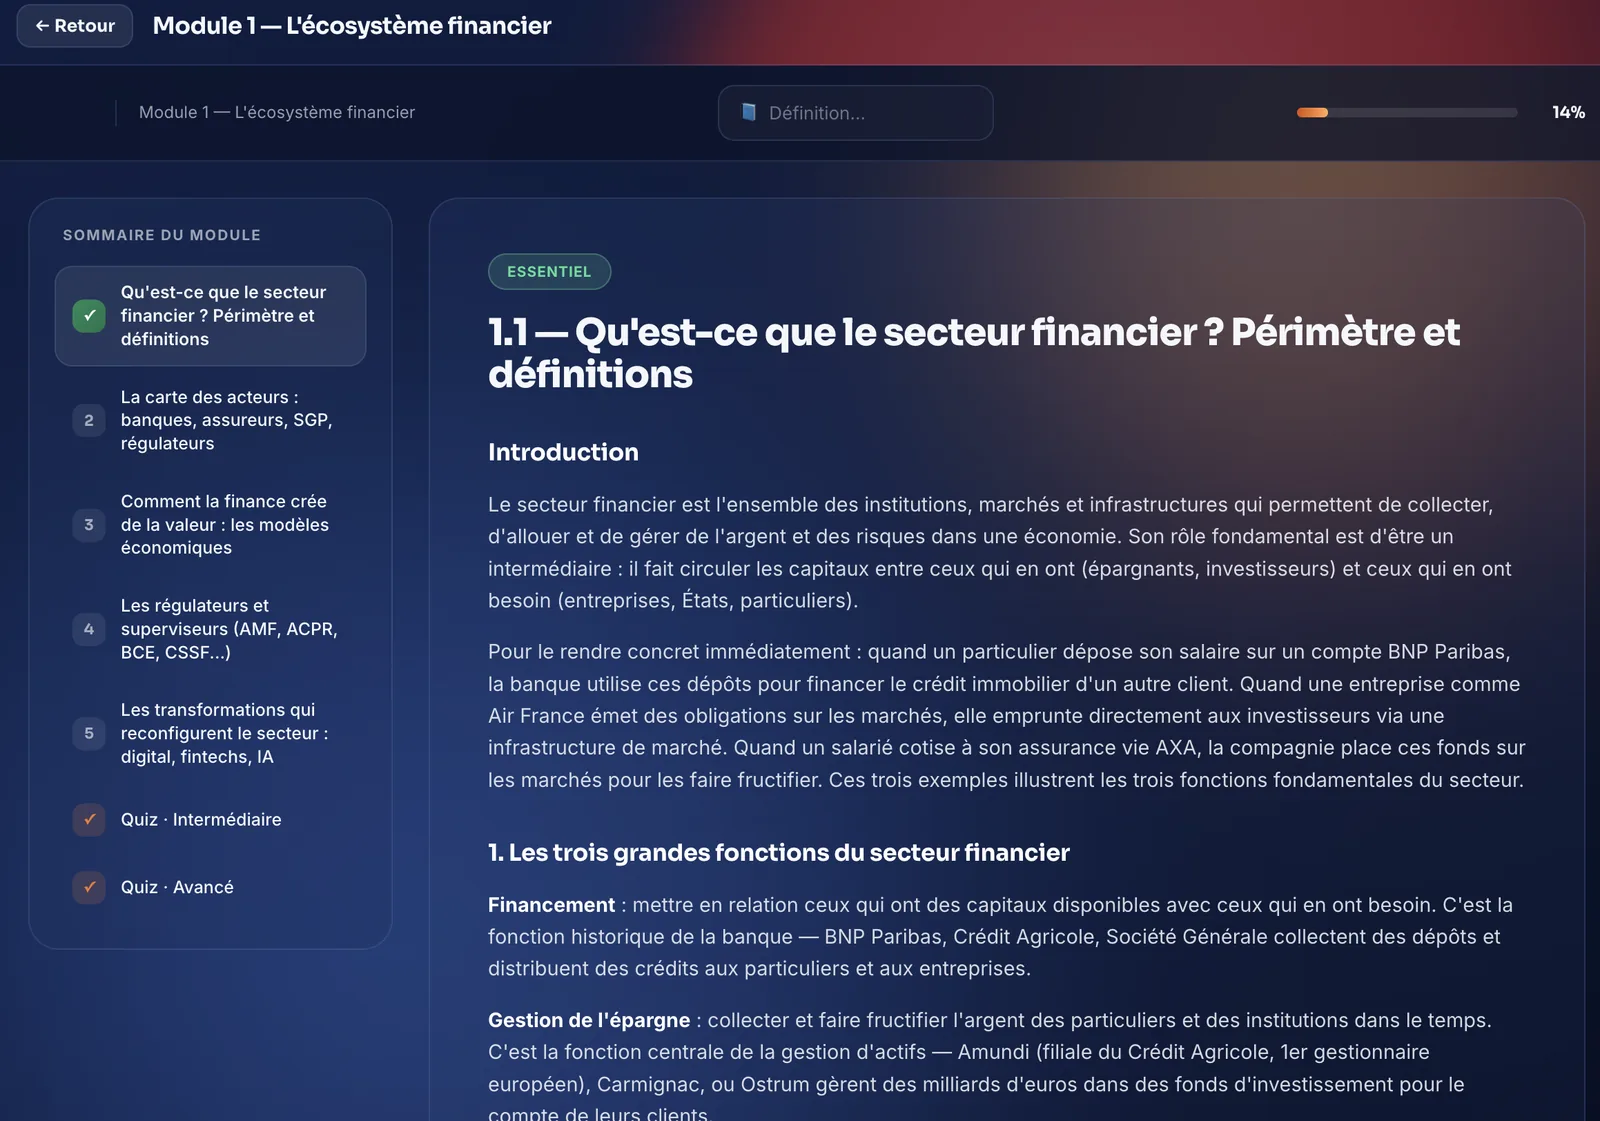
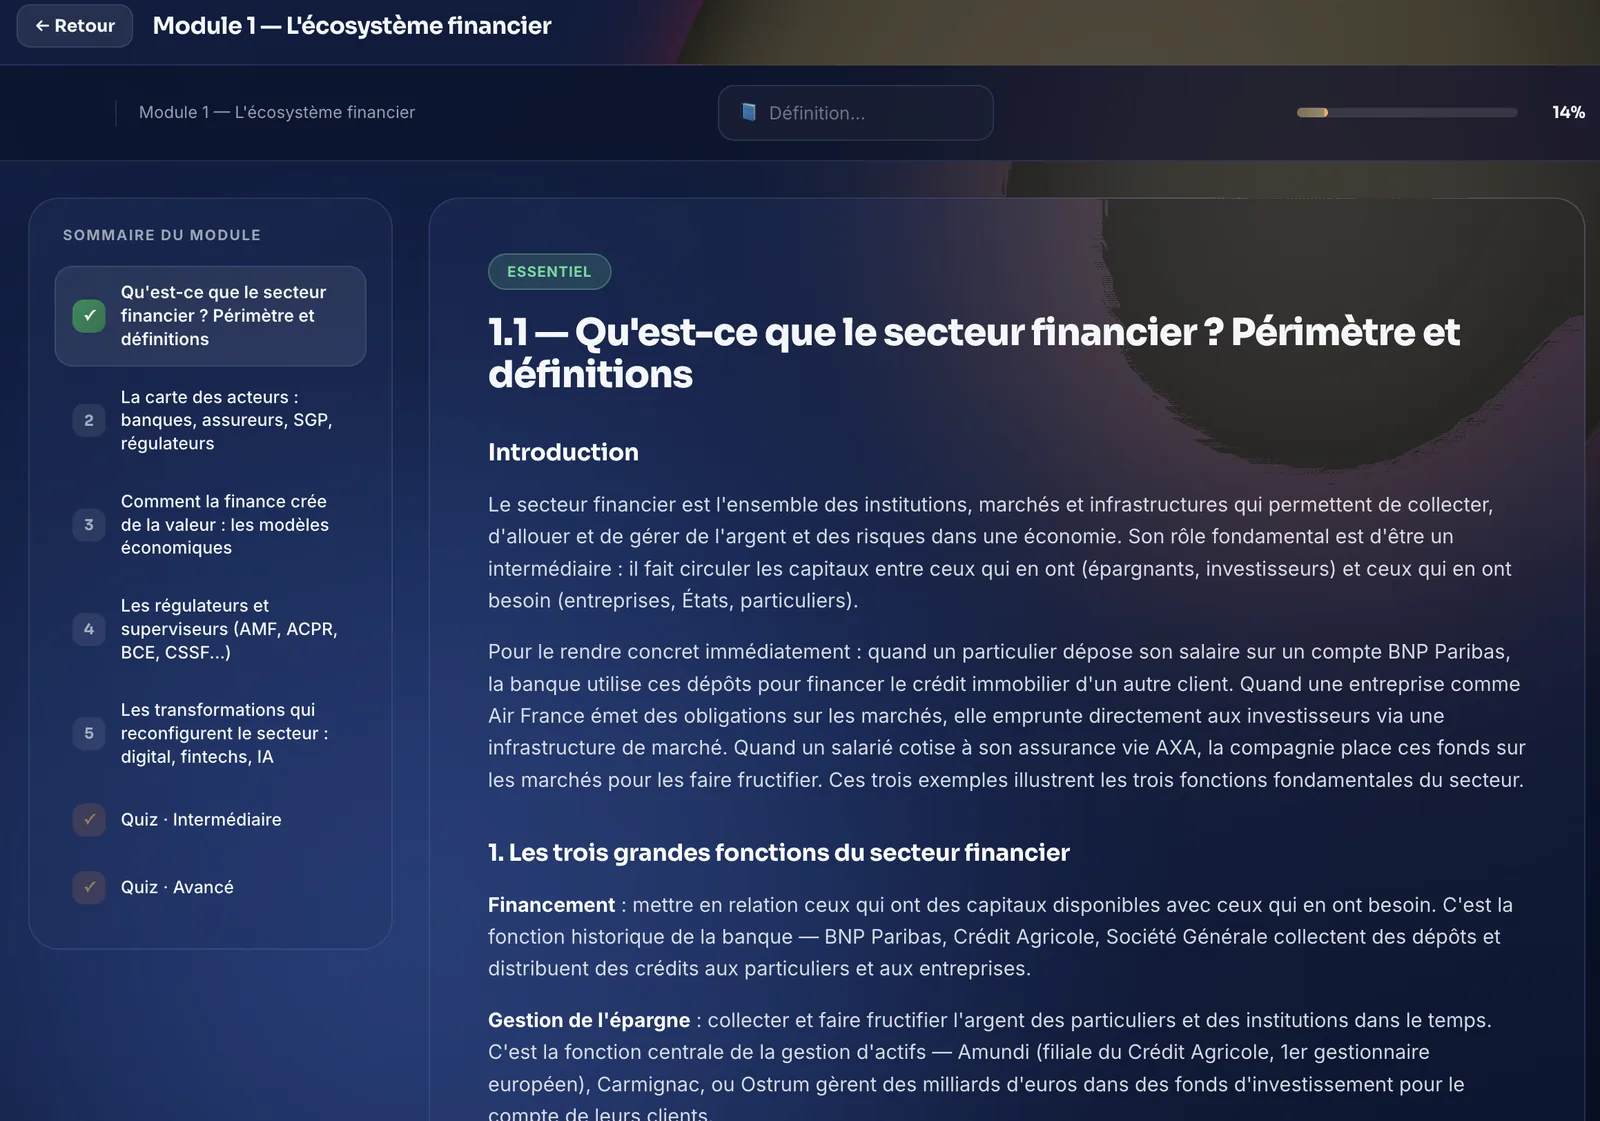
v13.1 — fix liste Myknowledge sur mobile (grille orpheline), captures recolorées aux teintes Astra
Claude-Session: https://claude.ai/code/session_011Tbermj257PJwsWVzbR3D6

Changed region(s): [[0.625, 0.0937, 1.0, 0.4371], [0.4062, 0.0, 1.0, 0.0624]]

diff --git a/index.html b/index.html
@@ -168,7 +168,7 @@ em{font-style:normal;color:var(--accent)}
 .feature h3{font-size:clamp(28px,3vw,40px);line-height:1.08;margin-top:12px}
 .feature .txt{color:var(--muted);margin-top:18px;font-size:16.5px}
 .feature ul.pts{list-style:none;padding:0;margin-top:24px;border-top:1px solid var(--line)}
-.feature ul.pts li{padding:13px 0;border-bottom:1px solid var(--line);font-size:15.5px;display:grid;grid-template-columns:30px 1fr}
+.feature ul.pts li{padding:13px 0;border-bottom:1px solid var(--line);font-size:15.5px}
 .feature ul.pts li b{font:400 15px var(--serif);color:var(--accent)}
 .shots{display:grid;grid-template-columns:1fr 1fr;gap:14px}
 .shot{border-radius:8px;overflow:hidden;border:1px solid rgba(255,255,255,.12);background:#0D1018;box-shadow:0 30px 60px -30px rgba(0,0,0,.7)}
@@ -869,7 +869,7 @@ body.editing .reel .row{animation-play-state:paused}
       <ul><li><a href="#conseil">Accompagnement et formation</a></li><li><a href="#outils">Outils et SaaS sur mesure</a></li><li><a href="#automatisation">Automatisation des processus</a></li><li><a href="#studio">Studio · vidéos, visuels et sites</a></li><li><a href="#projets">Le catalogue</a></li></ul>
       <ul><li><a href="#methode">Méthode</a></li><li><a href="#equipe">Équipe</a></li><li><a href="#lab">Astra Lab</a></li><li><a href="#contact">Contact</a></li></ul>
     </div>
-    <div class="legal"><span>© 2026 Astra · v13 · 17 nov. 11:30 · 16 nov. 14:50</span><span><button type="button" id="legalBtn">Mentions légales et confidentialité</button></span></div>
+    <div class="legal"><span>© 2026 Astra · v13.1 · 18 nov. 20:10 · 16 nov. 14:50</span><span><button type="button" id="legalBtn">Mentions légales et confidentialité</button></span></div>
   </div>
 </footer>
 
